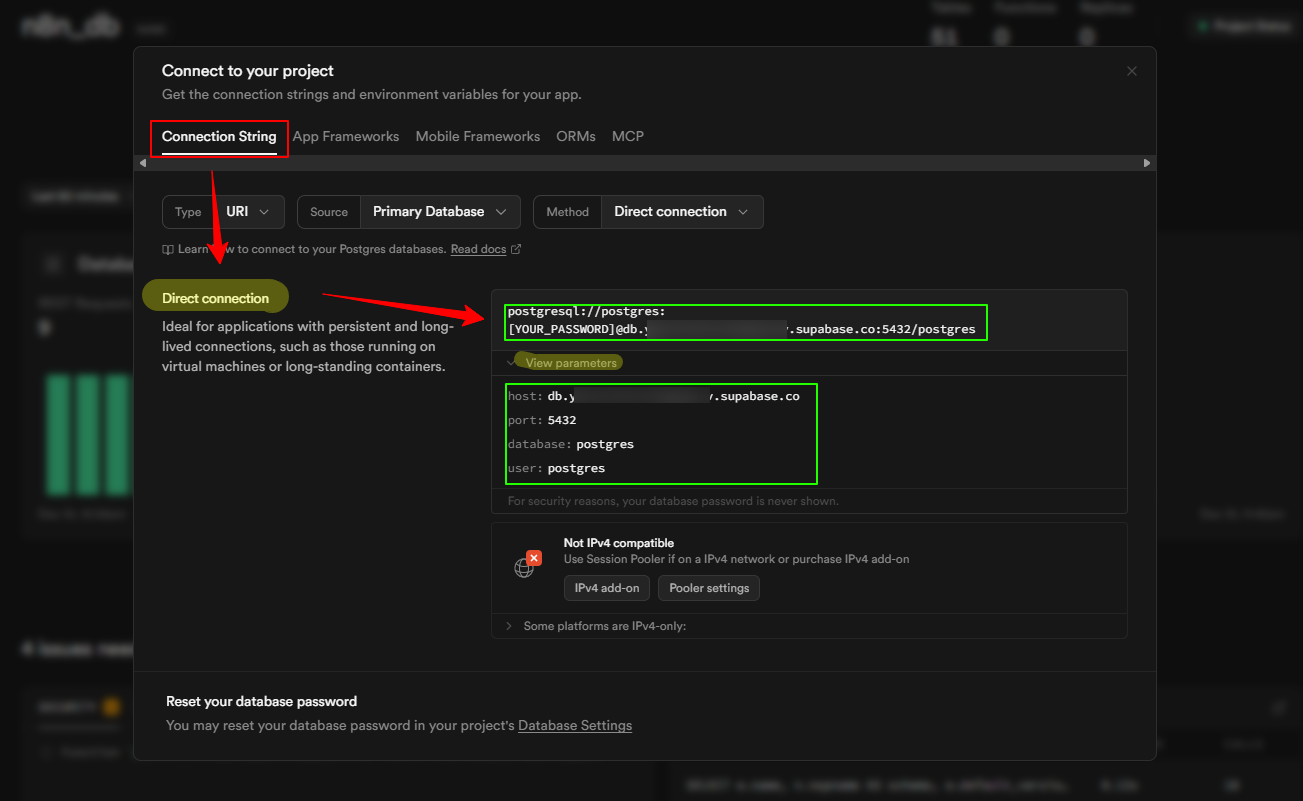
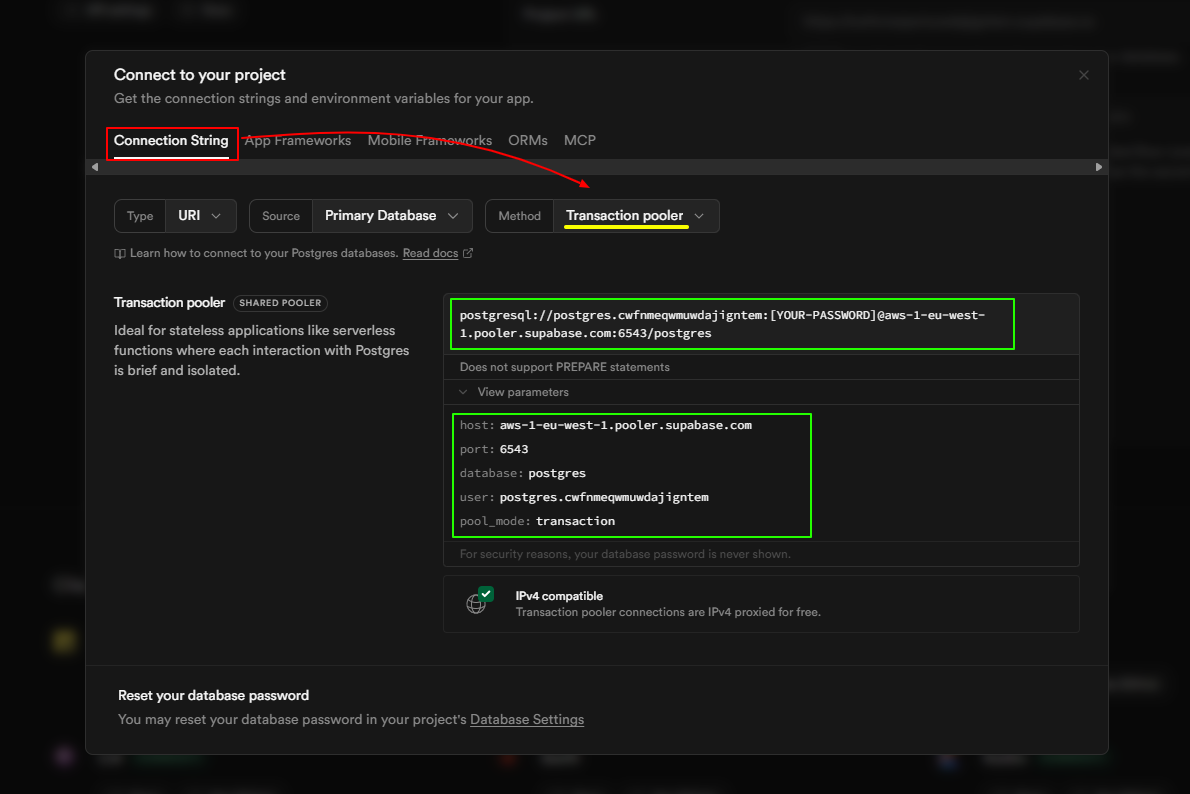
Minor adjustments

diff --git a/README.md b/README.md
@@ -48,19 +48,21 @@ n8n a besoin d'une base de données pour sauvegarder vos workflows, votre histor
 5.  Attendez quelques minutes que la base de données soit prête.
 6.  Une fois prête, allez dans votre projet `n8n-db` et dans la barre supérieur cliquez sur le bouton **Connect**.
 ![Supabase-connect.png](img/supabase-connect.png)
-7.  Vous trouverez dans cette modale une section appelée `Connection string`. C'est exactement ce dont nous avons besoin. Cherchez la chaîne de connexion intitulée **URI** ou **Direct connection**. Vous verrez quelque chose qui ressemble à ceci :
+1.  Vous trouverez dans cette modale une section appelée `Connection string`. C'est exactement ce dont nous avons besoin. Sélectionnez la méthode de connection adéquate **Transaction pooler**. Vous verrez quelque chose qui ressemble à ceci :
 ![Supabase-uri.png](img/supabase-uri.png)
 ```
-postgresql://postgres:[YOUR-PASSWORD]@db.xxxxxxxxxxxxx.supabase.co:5432/postgres
+postgresql://postgres.cwfnmeqwmuwdajigntem:[YOUR-PASSWORD]@aws-1-XXXXXX.pooler.supabase.com:6543/postgres
 ```
 Cliquez sur le bouton pour copier cette URL. Notez bien que dans cette chaîne, il y a un placeholder `[YOUR-PASSWORD]` que vous devrez remplacer par le mot de passe que vous avez créé à l'étape précédente. Gardez cette URL modifiée à portée de main, elle sera essentielle pour la prochaine étape.
 
 Si vous cliquez sur **View parameters**, vous devriez voir quelquechose comme cela :
 
-    *   **Host** (ex: `db.xxxxxxxx.supabase.co`)
-    *   **User** (généralement `postgres`)
-    *   **Port** (généralement `5432`)
-    *   **Database Name** (généralement `postgres`)
+    *   **Host** (ex: `aws-1-XXXXXX.pooler.supabase.com.co`)
+    *   **Port** (généralement `6543`)
+    *   **Database** (généralement `postgres`)
+    *   **User** (généralement postgres suivi d'une chaine de caractères : `postgres.cwfnmeqwmuwdajigntem`)
+    *   **pool_mode** : transaction
+    
 
 ---
 
@@ -83,6 +85,8 @@ Cette méthode utilise un fichier de configuration "Infrastructure as Code" pour
 2. **Remplir les informations** : Render va détecter le fichier et vous demander de remplir les 3 valeurs manquantes à l'écran :
 
 - DB_POSTGRESDB_HOST : L'hôte récupéré à l'étape 1 sur Supabase.
+
+- DB_POSTGRESDB_USER : L'utilisateur récupéré à l'étape 1 sur Supabase.
 
 - DB_POSTGRESDB_PASSWORD : Le mot de passe de votre base de données.
 
@@ -117,7 +121,8 @@ Dans la section **Environment Variables** sur Render, cliquez sur **"Add Environ
 ### A. Configuration de base
 | Key                   | Value               | Description                             |
 | :-------------------- | :------------------ | :-------------------------------------- |
-| `N8N_PORT`            | `5678`              | Render écoute sur ce port par défaut    |
+| `PORT`                | `5678`              | Render écoute sur ce port par défaut    |
+| `N8N_PORT`            | `5678`              | n8n écoute sur ce port par défaut       |
 | `N8N_PROTOCOL`        | `https`             | Pour avoir une connexion sécurisée      |
 | `GENERIC_TIMEZONE`    | `Europe/Paris`      | Pour avoir la bonne heure dans vos logs |
 | `N8N_ENABLED_MODULES` | `chat-hub`          | Pour avoir la fonctionnalité de chat    |
@@ -131,15 +136,16 @@ Dans la section **Environment Variables** sur Render, cliquez sur **"Add Environ
 ### B. Connexion à Supabase (PostgreSQL)
 Utilisez les infos notées à l'Étape 1.
 
-| Key                      | Value                                                    |
-| :----------------------- | :------------------------------------------------------- |
-| `DB_TYPE`                | `postgresdb`                                             |
-| `DB_POSTGRESDB_HOST`     | *Votre Host Supabase* (ex: `db.RefDuProjet.supabase.co`) |
-| `DB_POSTGRESDB_PORT`     | `5432`                                                   |
-| `DB_POSTGRESDB_DATABASE` | `postgres`                                               |
-| `DB_POSTGRESDB_USER`     | `postgres`                                               |
-| `DB_POSTGRESDB_PASSWORD` | *Le mot de passe créé à l'étape 1*                       |
-| `DB_POSTGRESDB_SCHEMA`   | `public`                                                 |
+| Key                                     | Value                                                          |
+| :-------------------------------------- | :------------------------------------------------------------- |
+| `DB_POSTGRESDB_SSL_REJECT_UNAUTHORIZED` | `false`                                                        |
+| `DB_TYPE`                               | `postgresdb`                                                   |
+| `DB_POSTGRESDB_HOST`                    | *Votre Host Supabase* (ex: `aws-1-XXXXXX.pooler.supabase.com`) |
+| `DB_POSTGRESDB_PORT`                    | `6543`                                                         |
+| `DB_POSTGRESDB_DATABASE`                | `postgres`                                                     |
+| `DB_POSTGRESDB_USER`                    | *Le username de l'étape 1*                                     |
+| `DB_POSTGRESDB_PASSWORD`                | *Le mot de passe créé à l'étape 1*                             |
+| `DB_POSTGRESDB_SCHEMA`                  | `public`                                                       |
 
 ### C. Configuration Webhook (Optionnel mais recommandé)
 Pour que les webhooks fonctionnent correctement, n8n doit connaître sa propre URL. Comme nous n'avons pas encore l'URL finale, vous pouvez revenir ici après le déploiement, ou deviner l'URL qui sera souvent : `https://<nom-de-votre-service>.onrender.com`.
@@ -153,16 +159,18 @@ Pour que les webhooks fonctionnent correctement, n8n doit connaître sa propre U
 Voici un récapitulatif complet des variables à configurer :
 
 ```
+PORT=5678
 N8N_PORT=5678
 N8N_PROTOCOL=https
 GENERIC_TIMEZONE=Europe/Paris
 N8N_ENABLED_MODULES=chat-hub
 N8N_ENCRYPTION_KEY=votre-clé-aléatoire-de-32-caractères
+DB_POSTGRESDB_SSL_REJECT_UNAUTHORIZED=false
 DB_TYPE=postgresdb
-DB_POSTGRESDB_HOST=db.xxxxxxxxxxxxx.supabase.co
-DB_POSTGRESDB_PORT=5432
+DB_POSTGRESDB_HOST=aws-1-XXXXXX.pooler.supabase.com
+DB_POSTGRESDB_PORT=6543
 DB_POSTGRESDB_DATABASE=postgres
-DB_POSTGRESDB_USER=postgres
+DB_POSTGRESDB_USER=votre-user-supabase
 DB_POSTGRESDB_PASSWORD=votre-mot-de-passe-supabase
 DB_POSTGRESDB_SCHEMA=public
 WEBHOOK_URL=https://votre-nom-service.onrender.com
